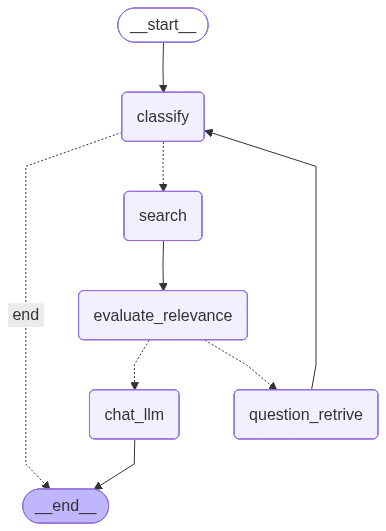
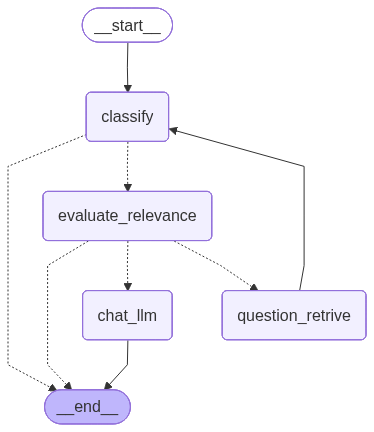
최종 rag 구축

diff --git a/media_sonju/vectordb/evaluate_chunks.py b/media_sonju/vectordb/evaluate_chunks.py
@@ -2,10 +2,16 @@ from vectordb.set_model import set_score_model
 from initial_state import SelfRAGState
 import json 
 from langchain.prompts import PromptTemplate
+from vectordb.search_query import search_question
+from langgraph.graph import END
 
-def evaluate_relevance(state: SelfRAGState)-> SelfRAGState:
+def evaluate_relevance(state: SelfRAGState,vectorstore)-> SelfRAGState:
+    
+    search_state ={"question":state.get("question"),
+                    "domain":state.get("domain"),
+                    "category":state.get("category")}
+    search_queries = search_question(search_state, vectorstore)
     """검색된 문서의 관련성을 평가하는 함수"""
-    search_queries = state.get("search_queries")
     retrieved_docs = [{
         "search_category": category,
         "content": doc.page_content,
@@ -15,7 +21,7 @@ def evaluate_relevance(state: SelfRAGState)-> SelfRAGState:
         for (doc, _) in docs
     ] 
 
-
+    final_message = state.get("final_anwser")
     relevant_docs = []
     relevance_scores = []
     avg_relevance = 0.0
@@ -48,19 +54,22 @@ def evaluate_relevance(state: SelfRAGState)-> SelfRAGState:
             })
             json_result = json.loads(result.content)
             
-            if json_result["evaluation_score"] >=50:  # 3점 이상만 관련 문서로 간주
+            if json_result["evaluation_score"] >=70:  # 3점 이상만 관련 문서로 간주
                 relevant_docs.append(doc)
                 relevance_scores.append(json_result["evaluation_score"])
                 
-            elif json_result["evaluation_score"] < 50:
+            elif json_result["evaluation_score"] < 70:
                 message += json_result["evaluation_detail"] + "\n"
                 continue
                 
         except ValueError:
-            print(f"점수 파싱 오류: {json_result["evaluation_score"]}")
+            print("점수 파싱 오류")
             continue
     if not relevant_docs:
         retrieval_question = True
+        if state.get("max_token"):
+            final_message ="죄송합니다. 조금 더 상세히 설명해주시면 도와드리도록 하겠습니다." 
+
     else:
         retrieval_question= False
     
@@ -71,14 +80,17 @@ def evaluate_relevance(state: SelfRAGState)-> SelfRAGState:
     return {
         **state,
         "retrieval_question":retrieval_question,
-        "relevant_docs":relevant_docs,
+        "retrieved_docs":relevant_docs,
         "relevance_scores": avg_relevance,
-        "message":message
+        "message":message,
+        "final_answer":final_message
     }
     
 def classify_retrieval(state: SelfRAGState)-> str:
-    """검색 필요성에 따라 다음 단계를 결정하는 조건부 함수"""
     if state["retrieval_question"]:
-        return "question_retrive"
+        if state.get("max_token"):
+            return END
+        else:
+            return "question_retrive"
     else:
         return "chat_llm"

diff --git a/media_sonju/rag_workflow.py b/media_sonju/rag_workflow.py
@@ -1,6 +1,5 @@
 from langgraph.graph import StateGraph, END
 from vectordb.category_chain import decide_classify_category,classify_quit
-from vectordb.search_query import search_question
 from vectordb.evaluate_chunks import evaluate_relevance,classify_retrieval
 from vectordb.chat_templete import chat_llm
 from vectordb.retrive import question_retrive
@@ -13,31 +12,34 @@ def create_self_rag_workflow(vectorstore):
     workflow = StateGraph(SelfRAGState)
    
     # search 노드: 래퍼 함수 사용 (partial 대신 안전)
-    def search_node(state: SelfRAGState):
-        return search_question(state, vectorstore=vectorstore)
+    def evaluate_relevance_node(state: SelfRAGState):
+        return evaluate_relevance(state, vectorstore=vectorstore)
     
     # 노드 추가
     workflow.add_node("classify", decide_classify_category)
-    workflow.add_node("search", search_node)
-    workflow.add_node("evaluate_relevance", evaluate_relevance)
+    workflow.add_node("evaluate_relevance", evaluate_relevance_node)
     workflow.add_node("question_retrive",question_retrive)
     workflow.add_node("chat_llm",chat_llm)
 
-    # 엣지 추가
+    # 엣지 시작
     workflow.set_entry_point("classify") # 실행이 시작되는 노드 
+    
     # 검색/분류 경로
     workflow.add_conditional_edges(
         "classify",
         classify_quit,
         {
-            END: END,
-            "search": "search"})
+            END : END,
+            "evaluate_relevance":"evaluate_relevance"
+                
+        }
+    )
     
-    # 조건부엣지
     workflow.add_conditional_edges(
         "evaluate_relevance",
         classify_retrieval,
         {
+            END : END,
             "question_retrive":"question_retrive",
             "chat_llm":"chat_llm"
                 
@@ -47,7 +49,6 @@ def create_self_rag_workflow(vectorstore):
     
     # 공통 경로
     workflow.add_edge("question_retrive","classify")
-    workflow.add_edge("search", "evaluate_relevance")
     workflow.add_edge("chat_llm",  END)
 
     

diff --git a/media_sonju/vectordb/category_chain.py b/media_sonju/vectordb/category_chain.py
@@ -4,6 +4,8 @@ from initial_state import SelfRAGState
 from langchain_core.output_parsers import JsonOutputParser
 from pydantic import BaseModel
 from langgraph.graph import END
+
+
 #from set_model import set_classify_model
 class CategoryResponse(BaseModel):
     need_quit: bool
@@ -12,6 +14,7 @@ class CategoryResponse(BaseModel):
 
 
 def decide_classify_category(state: SelfRAGState) -> SelfRAGState:
+    message = state.get("final_anwser")
     CUSTOMER_SUPPORT  = ["계약관련", "관리서비스", "구독/멤버십제도", "요금납부","제휴카드"]
     TECH_SUPPORT = ["공기청정기", "비데", "안마의자", "히터", "믹서기", "냉장고", "커피머신", "전기온수기", 
                     "세탁기", "상업용 스팀오븐레인지","상업용 튀김기", "선풍기", "이동식에어컨", "써큘레이터", 
@@ -45,12 +48,21 @@ def decide_classify_category(state: SelfRAGState) -> SelfRAGState:
     res = chain.invoke({"question": state["question"],
                         "customer_support": ", ".join(CUSTOMER_SUPPORT),
                         "tech_support": ", ".join(TECH_SUPPORT)})
-
-    return res
+    if res["need_quit"] == True:
+        message = "지원하지 않는 질문입니다. 다시 질문해주세요"
     
-def classify_quit(state: SelfRAGState) -> str:    
-    if state.get("need_quit"):
-        print("죄송합니다. 지원하지 않는 질문입니다. 다시 입력해주세요")
+    return {
+        **state,
+        "need_quit":res["need_quit"],
+        "domain" : res["domain"],
+        "category" : res["category"],
+        "final_answer":message
+        
+    }
+    
+def classify_quit(state: SelfRAGState) -> str:
+    if state["need_quit"]:
         return END
     else:
-        return "search"
+        return "evaluate_relevance"
+

diff --git a/media_sonju/vectordb/search_query.py b/media_sonju/vectordb/search_query.py
@@ -1,17 +1,14 @@
-from initial_state import SelfRAGState
 
-def search_question(state:SelfRAGState,vectorstore) -> SelfRAGState:
-    
-    domain = state.get("domain")
-    categories = state.get("category")
-    query = state.get("question")  
+def search_question(search_state,vectorstore) -> dict:
+    domain = search_state.get("domain")
+    categories = search_state.get("category")
+    query = search_state.get("question")  
     all_results = {}  
     if categories:
         for cat in categories:
                 print(f"{cat} 유사도 검색 시작")
                 results = vectorstore.similarity_search_with_filter_score(query=query, 
                                         k=5, categories=cat) # Cosine 유사도 기반으로 계산-> 높을 수록 좋음
-                #print(results)
                 all_results[cat] = results
                 print_from(results)
     else:
@@ -27,10 +24,7 @@ def search_question(state:SelfRAGState,vectorstore) -> SelfRAGState:
             print_from(results)
                 
         
-    return {
-        **state,
-        "search_queries" : all_results
-    }
+    return all_results
     
 
 def print_from(results):

diff --git a/media_sonju/initial_state.py b/media_sonju/initial_state.py
@@ -11,19 +11,21 @@ class SelfRAGState(TypedDict):
     need_quit: bool  # 검색 필요 여부
     domain: str # 고객지원/기술지원 multi agent 분류
     category: List[str]  # 세부 카테고리
+    max_token:bool
     
     # 답변 생성 관련
     retrieval_question:bool
     search_queries: Dict[str, List[Tuple[Any, float]]] # RAG 결과
     retrieved_docs: List[Dict[str, Any]] # 검증이후 query
-    context: str # LLM Templete에 들어갈 문장 구성 
-       
+    context: str # LLM Templete에 들어갈 문장 구성
+    #chunk_metadata: Dict[str,List[Dict[str]]]
+
     # 평가 관련
     relevance_score: float  # 관련성 점수
     message:str
-
     
     # 최종 결과
+    
     final_answer: str  # 최종 답변 (출처 포함)
 
 

diff --git a/media_sonju/run_rag.py b/media_sonju/run_rag.py
@@ -21,7 +21,10 @@ def run_self_rag(self_rag_app, question: str, verbose: bool = True):
         "retrieved_docs":[],
         "relevance_scores":0.0,
         "context":"",
-        "final_answer":""
+        "final_answer":"",
+        "chunk_metadata": {},
+        "max_token":False,
+        "end_error_message":""
     }
     
     # Self-RAG 워크플로우 실행

diff --git a/media_sonju/vectordb/retrive.py b/media_sonju/vectordb/retrive.py
@@ -29,5 +29,7 @@ def question_retrive(state: SelfRAGState) -> SelfRAGState:
         "message":state["message"],
     })
     return {
-        "question": result.content
+        **state,
+        "question": result.content,
+        "max_token":True
     }
